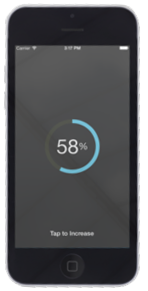
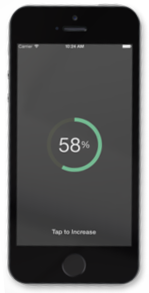
updates

Changed region(s): [[0.027, 0.0, 0.973, 0.9897], [0.3784, 0.4021, 0.7027, 0.6186], [0.4054, 0.8969, 0.4324, 0.9278]]

diff --git a/MHRadialProgressView/Classes/MHRadialProgressView.m b/MHRadialProgressView/Classes/MHRadialProgressView.m
@@ -9,6 +9,7 @@
 #import "MHRadialProgressView.h"
 
 CGFloat static const kMHStorkeWidthRatio = 0.07;
+CGFloat static const kAnimationDuration = 0.5;
 
 @interface MHRadialProgressSegment : NSObject
 
@@ -177,7 +178,7 @@ CGFloat static const kMHStorkeWidthRatio = 0.07;
     [self.layer addSublayer:progressLayer];
     
     CABasicAnimation *animateStrokeEnd = [CABasicAnimation animationWithKeyPath:@"strokeEnd"];
-    animateStrokeEnd.duration  = 0.5 * ([fragment.value doubleValue] / [self.maxValue doubleValue]);
+    animateStrokeEnd.duration  = kAnimationDuration * ([fragment.value doubleValue] / [self.maxValue doubleValue]);
     animateStrokeEnd.fromValue = [NSNumber numberWithFloat:0.0f];
     animateStrokeEnd.toValue   = [NSNumber numberWithFloat:1.0f];
     [progressLayer addAnimation:animateStrokeEnd forKey:nil];
@@ -227,7 +228,7 @@ CGFloat static const kMHStorkeWidthRatio = 0.07;
 {
     self = [super init];
     if (self) {
-        self.color = [UIColor colorWithRed:112/255. green:202/255. blue:229/255. alpha:1.0];
+        self.color = [UIColor colorWithRed:112/255. green:198/255. blue:149/255. alpha:1.0];
     }
     return self;
 }
